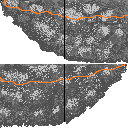
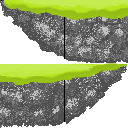
vertical camera scrolling

Changed region(s): [[0.0, 0.4688, 1.0, 0.6875], [0.0312, 0.0, 1.0, 0.1562]]

diff --git a/sprites.py b/sprites.py
@@ -297,6 +297,7 @@ class Layout(pygame.sprite.Sprite):
     def __init__(self, size):
         pygame.sprite.Sprite.__init__(self)
         self.size = size
+        # main rocks tiles
         self.tile_sheet = SpriteSheet('assets/tilemap_2.png')
         self.left_end_rock = self.tile_sheet.image_at((0, 0, 64, 64), -2)
         self.left_rock = self.tile_sheet.image_at((65, 0, 64, 64), -2)
@@ -306,6 +307,17 @@ class Layout(pygame.sprite.Sprite):
         self.left_rock = pygame.transform.scale(self.left_rock, (size, size))
         self.right_rock = pygame.transform.scale(self.right_rock, (size, size))
         self.right_end_rock = pygame.transform.scale(self.right_end_rock, (size, size))
+        # enemy rocks tiles
+        self.enemy_tile_sheet = SpriteSheet('assets/enemy_rocks.png')
+        self.le_enemy_rock = self.enemy_tile_sheet.image_at((0, 0, 64, 64), -2)
+        self.l_enemy_rock = self.enemy_tile_sheet.image_at((65, 0, 64, 64), -2)
+        self.r_enemy_rock = self.enemy_tile_sheet.image_at((65, 64, 64, 64), -2)
+        self.re_enemy_rock = self.enemy_tile_sheet.image_at((0, 64, 64, 64), -2)
+        self.le_enemy_rock = pygame.transform.scale(self.le_enemy_rock, (size, size))
+        self.l_enemy_rock = pygame.transform.scale(self.l_enemy_rock, (size, size))
+        self.r_enemy_rock = pygame.transform.scale(self.r_enemy_rock, (size, size))
+        self.re_enemy_rock = pygame.transform.scale(self.re_enemy_rock, (size, size))
+
         self.blocks_group = pygame.sprite.Group()
         self.player_group = pygame.sprite.GroupSingle()
         self.enemy_group = pygame.sprite.GroupSingle()
@@ -342,6 +354,34 @@ class Layout(pygame.sprite.Sprite):
                     image_rect.x = x_val
                     image_rect.y = y_val
                     tile = (self.right_end_rock, image_rect)
+                    self.tile_list.append(tile)
+
+                if col == "a":
+                    image_rect = self.le_enemy_rock.get_rect()
+                    image_rect.x = x_val
+                    image_rect.y = y_val
+                    tile = (self.le_enemy_rock, image_rect)
+                    self.tile_list.append(tile)
+
+                if col == "b":
+                    image_rect = self.l_enemy_rock.get_rect()
+                    image_rect.x = x_val
+                    image_rect.y = y_val
+                    tile = (self.l_enemy_rock, image_rect)
+                    self.tile_list.append(tile)
+
+                if col == "c":
+                    image_rect = self.r_enemy_rock.get_rect()
+                    image_rect.x = x_val
+                    image_rect.y = y_val
+                    tile = (self.r_enemy_rock, image_rect)
+                    self.tile_list.append(tile)
+
+                if col == "d":
+                    image_rect = self.re_enemy_rock.get_rect()
+                    image_rect.x = x_val
+                    image_rect.y = y_val
+                    tile = (self.re_enemy_rock, image_rect)
                     self.tile_list.append(tile)
 
                 if col == "P":

diff --git a/settings.py b/settings.py
@@ -7,7 +7,7 @@ YELLOW = (214, 146, 0)
 GREEN = (60, 92, 0)
 RED = (166, 0, 0)
 PURPLE = (215, 135, 255)
-BG = (0, 65, 150)
+BG = (15, 55, 90)
 
 FPS = 60
 
@@ -34,7 +34,7 @@ LAYOUT = ['43000000000000000012',
           '00000000000000000000',
           '00000000000000000000',
           '0000000000000000000e',
-          '00000000000000000000',
+          '0000000000000abddbdb',
           '00000000000000000000',
           '00000000000000000000',
           '00000000000000000000',
